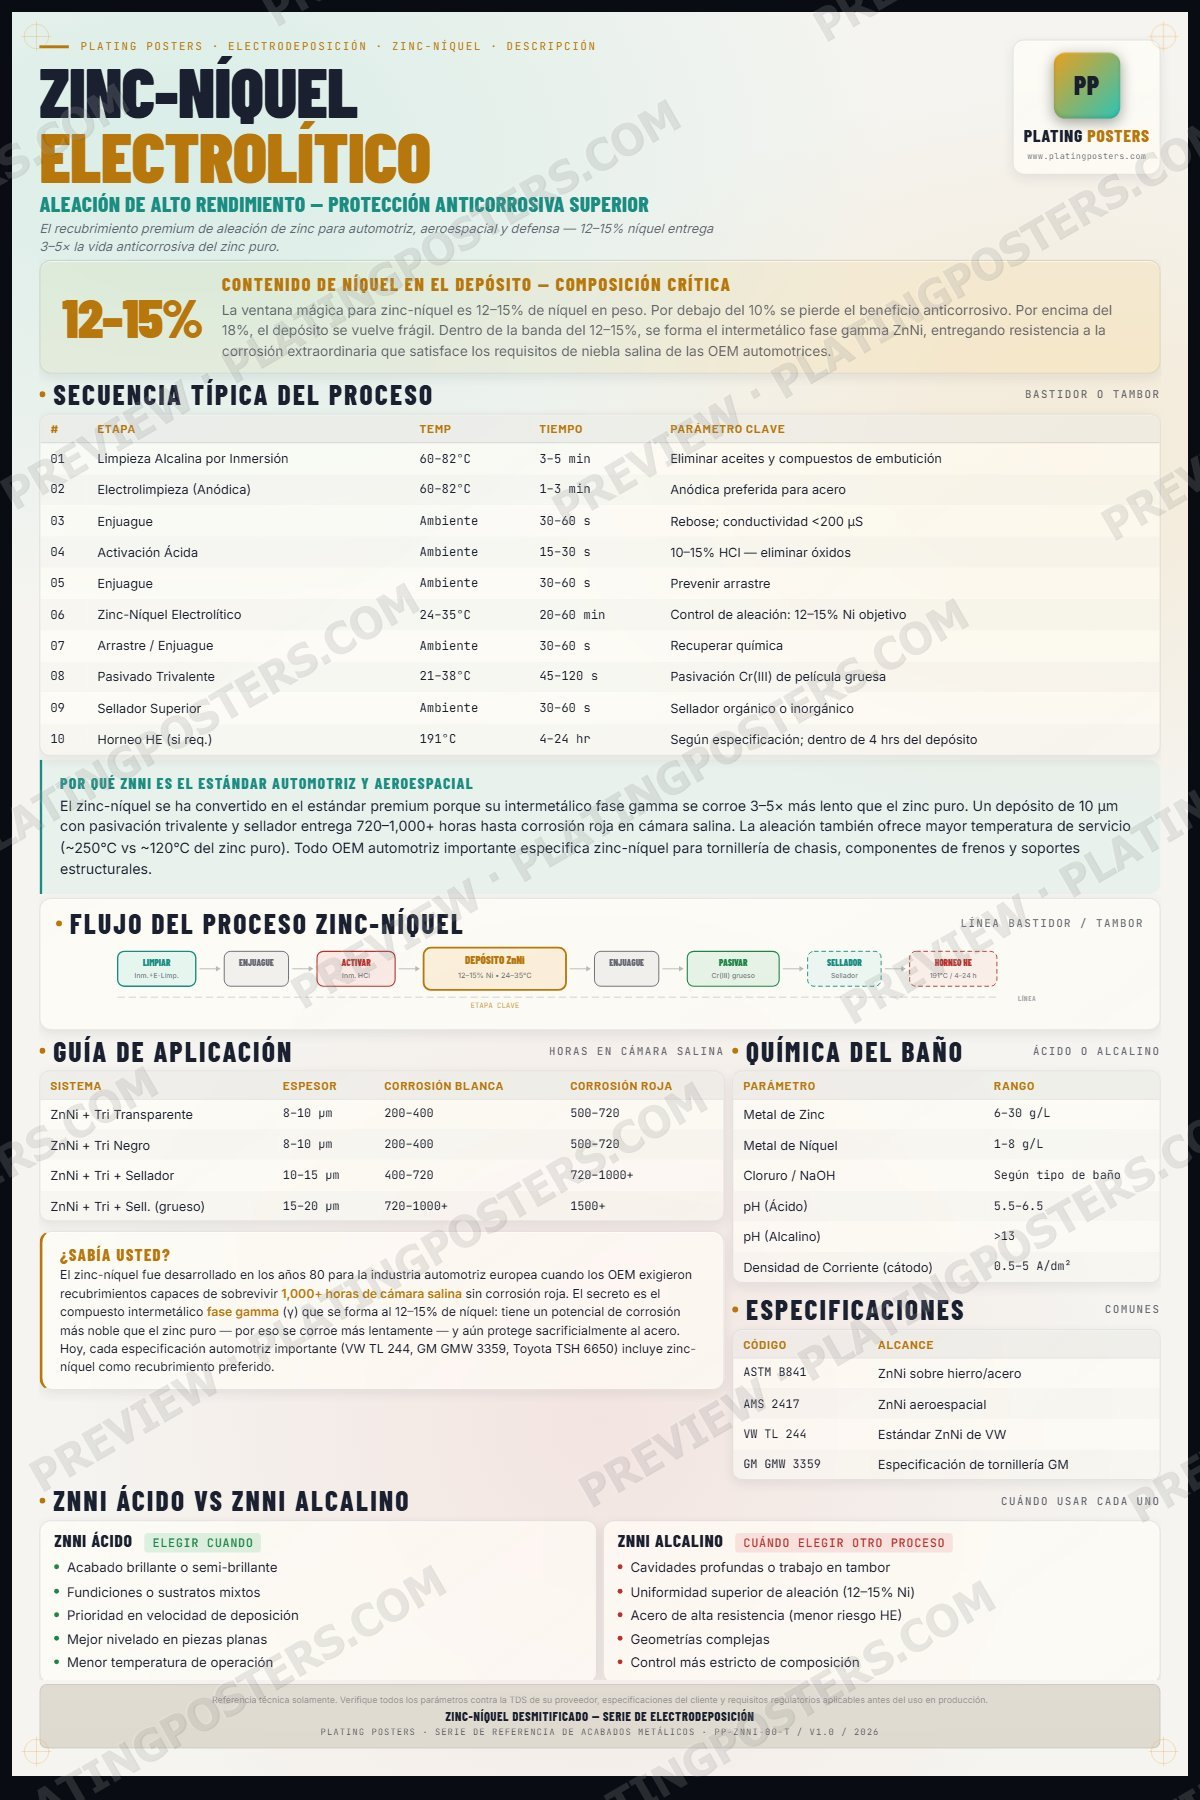
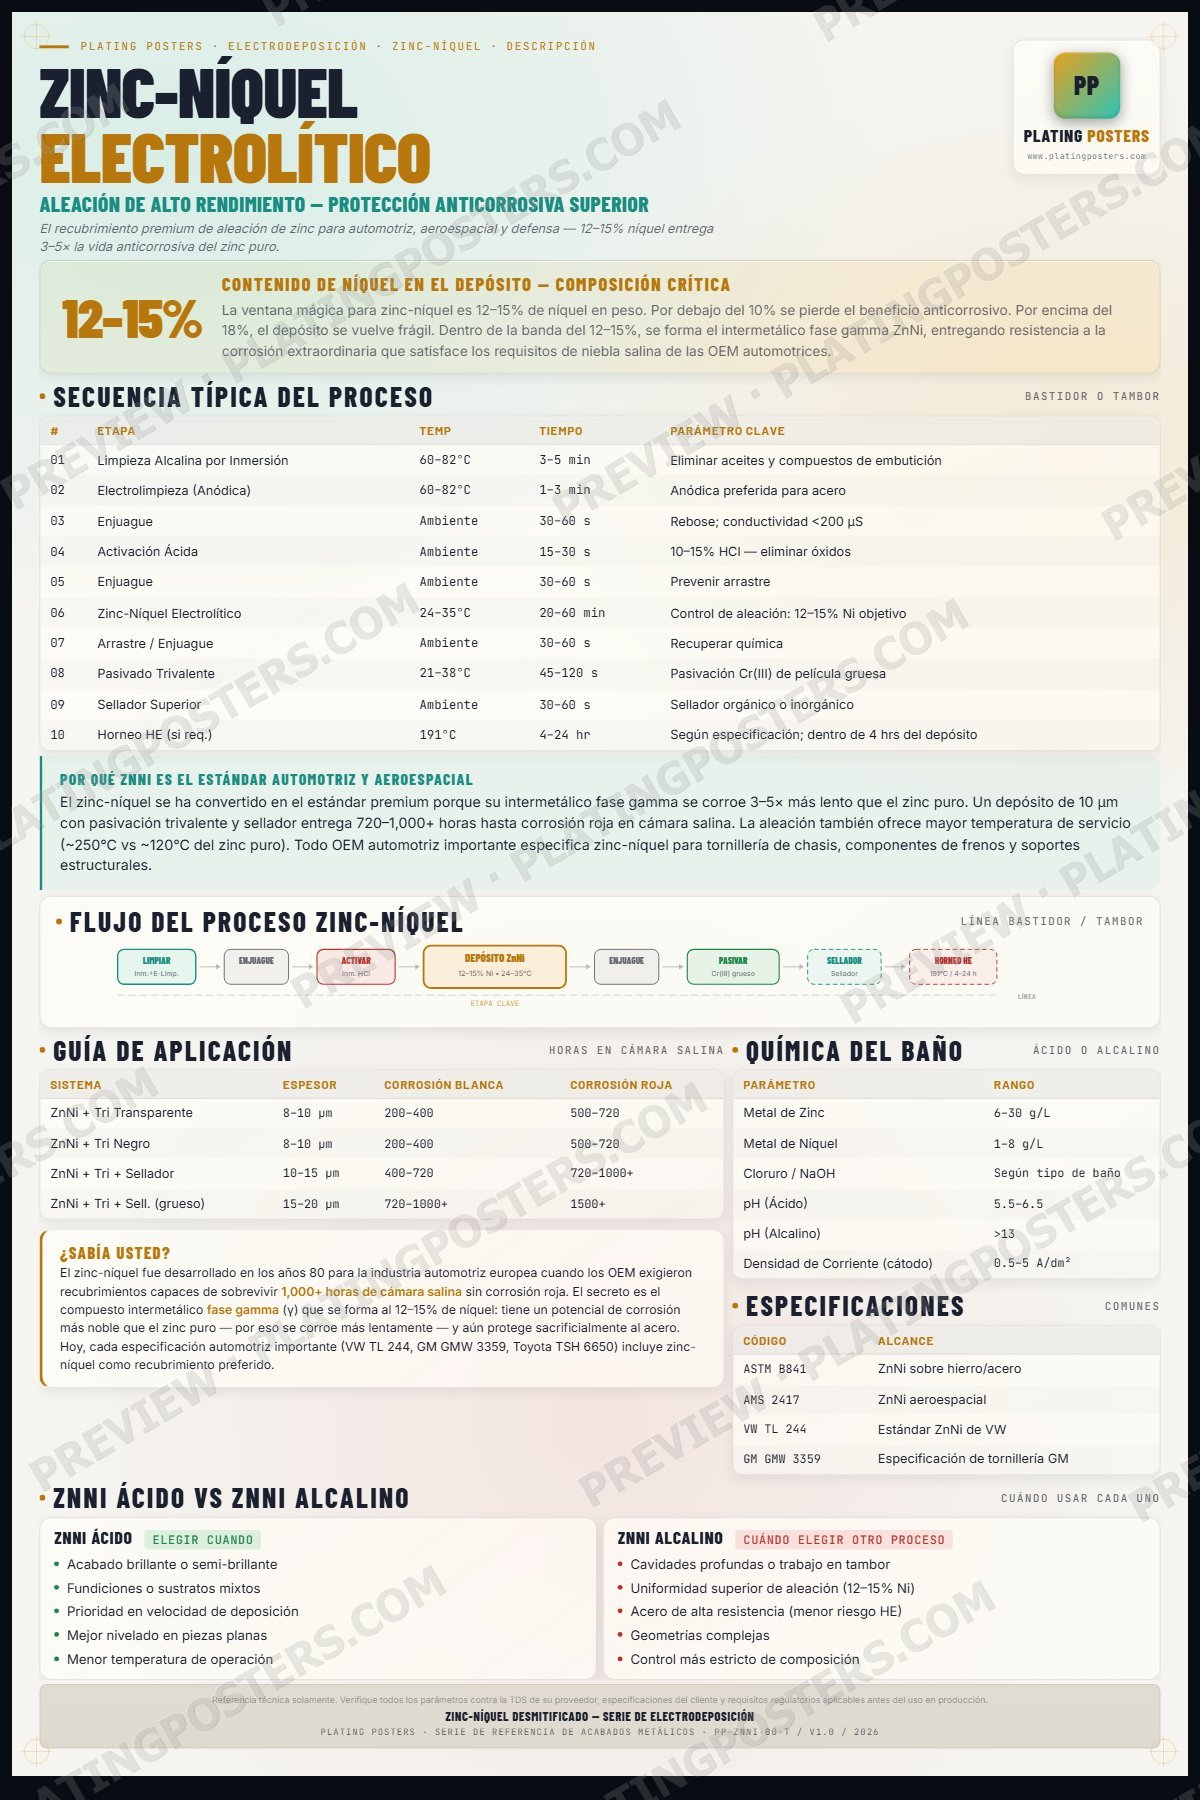
ZnNi Demystified: fix poster-body bottom clip (4 variants)
Pre-existing 6px (EN) / 4px (ES) content clip at the 1800px canvas
edge. Tightened process/bath table row line-heights (wave2-fit block,
no font/content change) -> 0px clip, 28px footer clearance all 4.
Regenerated the 4 ZnNi previews (auto-watermarked). All 100
Demystified now print-ready.

diff --git a/poster-sources/ZnNi - 00 - TECHNICAL - Zinc-Nickel Plating Demystified - EN - Dark.html b/poster-sources/ZnNi - 00 - TECHNICAL - Zinc-Nickel Plating Demystified - EN - Dark.html
@@ -44,6 +44,9 @@ html,body{margin:0;padding:0;background:#0a0c14;}
 .safety-card{padding:12px 18px;background:rgba(224,92,92,.08);border:1px solid rgba(224,92,92,.25);border-radius:12px;}.safety-head{font-family:'Barlow Condensed',sans-serif;font-weight:900;font-size:20px;color:var(--coral);letter-spacing:.06em;text-transform:uppercase;margin-bottom:5px;}.safety-body{font-size:14px;color:var(--text);line-height:1.55;}.safety-body strong{font-weight:700;color:var(--coral);}
 .footer{padding:10px 20px;background-color:rgba(13,16,32,.85);background-image:linear-gradient(180deg,rgba(255,255,255,.04),rgba(0,0,0,0));border:1px solid rgba(255,255,255,.10);border-radius:8px;text-align:center;display:flex;flex-direction:column;gap:2px;}.poster[data-edition="light"] .footer{background-color:rgba(221,216,206,.95);border-color:rgba(27,32,48,.10);}.footer-disclaimer{font-family:'Inter',sans-serif;font-size:9px;line-height:1.35;color:var(--faint);margin:0 auto;max-width:900px;}.footer-title{font-family:'Barlow Condensed',sans-serif;font-weight:800;font-size:13px;color:var(--text);letter-spacing:.04em;text-transform:uppercase;margin:0;}.footer-brand{font-family:'JetBrains Mono',monospace;font-size:9px;color:var(--muted);letter-spacing:.12em;text-transform:uppercase;}
 .tweaks{position:fixed;bottom:16px;right:16px;z-index:100;background:rgba(13,16,32,.92);border:1px solid rgba(255,255,255,.12);border-radius:10px;padding:10px 14px;display:flex;flex-direction:column;gap:8px;font-family:'Inter',sans-serif;font-size:12px;color:#F0EDE8;}
+/* wave2-fit (2026-08-06): clear pre-existing ~6px .poster-body bottom clip by tightening table row rhythm only — no font-size or content change */
+.data-table.compact td{line-height:1.40;}
+.data-table.bath td{line-height:1.36;}
 @media print{@page{size:12.5in 18.75in;margin:0;}html,body{background:#1A1F2E !important;-webkit-print-color-adjust:exact !important;print-color-adjust:exact !important;}*{-webkit-print-color-adjust:exact !important;print-color-adjust:exact !important;}.stage{position:static;padding:0;display:block;overflow:visible;}.poster-wrap{transform:none !important;width:auto !important;height:auto !important;}.poster{box-shadow:none !important;width:1200px !important;height:1800px !important;overflow:hidden !important;}.glass,.insight-card,.safety-card{backdrop-filter:none !important;-webkit-backdrop-filter:none !important;}.tweaks{display:none !important;}}
 </style>
 </head>

diff --git a/poster-sources/ZnNi - 00 - TECHNICAL - Zinc-Nickel Plating Demystified - EN - Light.html b/poster-sources/ZnNi - 00 - TECHNICAL - Zinc-Nickel Plating Demystified - EN - Light.html
@@ -44,6 +44,9 @@ html,body{margin:0;padding:0;background:#0a0c14;}
 .safety-card{padding:12px 18px;background:rgba(224,92,92,.08);border:1px solid rgba(224,92,92,.25);border-radius:12px;}.safety-head{font-family:'Barlow Condensed',sans-serif;font-weight:900;font-size:20px;color:var(--coral);letter-spacing:.06em;text-transform:uppercase;margin-bottom:5px;}.safety-body{font-size:14px;color:var(--text);line-height:1.55;}.safety-body strong{font-weight:700;color:var(--coral);}
 .footer{padding:10px 20px;background-color:rgba(13,16,32,.85);background-image:linear-gradient(180deg,rgba(255,255,255,.04),rgba(0,0,0,0));border:1px solid rgba(255,255,255,.10);border-radius:8px;text-align:center;display:flex;flex-direction:column;gap:2px;}.poster[data-edition="light"] .footer{background-color:rgba(221,216,206,.95);border-color:rgba(27,32,48,.10);}.footer-disclaimer{font-family:'Inter',sans-serif;font-size:9px;line-height:1.35;color:var(--faint);margin:0 auto;max-width:900px;}.footer-title{font-family:'Barlow Condensed',sans-serif;font-weight:800;font-size:13px;color:var(--text);letter-spacing:.04em;text-transform:uppercase;margin:0;}.footer-brand{font-family:'JetBrains Mono',monospace;font-size:9px;color:var(--muted);letter-spacing:.12em;text-transform:uppercase;}
 .tweaks{position:fixed;bottom:16px;right:16px;z-index:100;background:rgba(13,16,32,.92);border:1px solid rgba(255,255,255,.12);border-radius:10px;padding:10px 14px;display:flex;flex-direction:column;gap:8px;font-family:'Inter',sans-serif;font-size:12px;color:#F0EDE8;}
+/* wave2-fit (2026-08-06): clear pre-existing ~6px .poster-body bottom clip by tightening table row rhythm only — no font-size or content change */
+.data-table.compact td{line-height:1.40;}
+.data-table.bath td{line-height:1.36;}
 @media print{@page{size:12.5in 18.75in;margin:0;}html,body{background:#1A1F2E !important;-webkit-print-color-adjust:exact !important;print-color-adjust:exact !important;}*{-webkit-print-color-adjust:exact !important;print-color-adjust:exact !important;}.stage{position:static;padding:0;display:block;overflow:visible;}.poster-wrap{transform:none !important;width:auto !important;height:auto !important;}.poster{box-shadow:none !important;width:1200px !important;height:1800px !important;overflow:hidden !important;}.glass,.insight-card,.safety-card{backdrop-filter:none !important;-webkit-backdrop-filter:none !important;}.tweaks{display:none !important;}}
 </style>
 </head>

diff --git a/poster-sources/ZnNi - 00 - TECHNICAL - Zinc-Niquel Desmitificado - ES - Dark.html b/poster-sources/ZnNi - 00 - TECHNICAL - Zinc-Niquel Desmitificado - ES - Dark.html
@@ -44,6 +44,9 @@ html,body{margin:0;padding:0;background:#0a0c14;}
 .safety-card{padding:12px 18px;background:rgba(224,92,92,.08);border:1px solid rgba(224,92,92,.25);border-radius:12px;}.safety-head{font-family:'Barlow Condensed',sans-serif;font-weight:900;font-size:20px;color:var(--coral);letter-spacing:.06em;text-transform:uppercase;margin-bottom:5px;}.safety-body{font-size:14px;color:var(--text);line-height:1.55;}.safety-body strong{font-weight:700;color:var(--coral);}
 .footer{padding:10px 20px;background-color:rgba(13,16,32,.85);background-image:linear-gradient(180deg,rgba(255,255,255,.04),rgba(0,0,0,0));border:1px solid rgba(255,255,255,.10);border-radius:8px;text-align:center;display:flex;flex-direction:column;gap:2px;}.poster[data-edition="light"] .footer{background-color:rgba(221,216,206,.95);border-color:rgba(27,32,48,.10);}.footer-disclaimer{font-family:'Inter',sans-serif;font-size:9px;line-height:1.35;color:var(--faint);margin:0 auto;max-width:900px;}.footer-title{font-family:'Barlow Condensed',sans-serif;font-weight:800;font-size:13px;color:var(--text);letter-spacing:.04em;text-transform:uppercase;margin:0;}.footer-brand{font-family:'JetBrains Mono',monospace;font-size:9px;color:var(--muted);letter-spacing:.12em;text-transform:uppercase;}
 .tweaks{position:fixed;bottom:16px;right:16px;z-index:100;background:rgba(13,16,32,.92);border:1px solid rgba(255,255,255,.12);border-radius:10px;padding:10px 14px;display:flex;flex-direction:column;gap:8px;font-family:'Inter',sans-serif;font-size:12px;color:#F0EDE8;}
+/* wave2-fit (2026-08-06): clear pre-existing ~4px .poster-body bottom clip by tightening table row rhythm only — no font-size or content change */
+.data-table.compact td{line-height:1.40;}
+.data-table.bath td{line-height:1.36;}
 @media print{@page{size:12.5in 18.75in;margin:0;}html,body{background:#1A1F2E !important;-webkit-print-color-adjust:exact !important;print-color-adjust:exact !important;}*{-webkit-print-color-adjust:exact !important;print-color-adjust:exact !important;}.stage{position:static;padding:0;display:block;overflow:visible;}.poster-wrap{transform:none !important;width:auto !important;height:auto !important;}.poster{box-shadow:none !important;width:1200px !important;height:1800px !important;overflow:hidden !important;}.glass,.insight-card,.safety-card{backdrop-filter:none !important;-webkit-backdrop-filter:none !important;}.tweaks{display:none !important;}}
 </style>
 </head>

diff --git a/poster-sources/ZnNi - 00 - TECHNICAL - Zinc-Niquel Desmitificado - ES - Light.html b/poster-sources/ZnNi - 00 - TECHNICAL - Zinc-Niquel Desmitificado - ES - Light.html
@@ -44,6 +44,9 @@ html,body{margin:0;padding:0;background:#0a0c14;}
 .safety-card{padding:12px 18px;background:rgba(224,92,92,.08);border:1px solid rgba(224,92,92,.25);border-radius:12px;}.safety-head{font-family:'Barlow Condensed',sans-serif;font-weight:900;font-size:20px;color:var(--coral);letter-spacing:.06em;text-transform:uppercase;margin-bottom:5px;}.safety-body{font-size:14px;color:var(--text);line-height:1.55;}.safety-body strong{font-weight:700;color:var(--coral);}
 .footer{padding:10px 20px;background-color:rgba(13,16,32,.85);background-image:linear-gradient(180deg,rgba(255,255,255,.04),rgba(0,0,0,0));border:1px solid rgba(255,255,255,.10);border-radius:8px;text-align:center;display:flex;flex-direction:column;gap:2px;}.poster[data-edition="light"] .footer{background-color:rgba(221,216,206,.95);border-color:rgba(27,32,48,.10);}.footer-disclaimer{font-family:'Inter',sans-serif;font-size:9px;line-height:1.35;color:var(--faint);margin:0 auto;max-width:900px;}.footer-title{font-family:'Barlow Condensed',sans-serif;font-weight:800;font-size:13px;color:var(--text);letter-spacing:.04em;text-transform:uppercase;margin:0;}.footer-brand{font-family:'JetBrains Mono',monospace;font-size:9px;color:var(--muted);letter-spacing:.12em;text-transform:uppercase;}
 .tweaks{position:fixed;bottom:16px;right:16px;z-index:100;background:rgba(13,16,32,.92);border:1px solid rgba(255,255,255,.12);border-radius:10px;padding:10px 14px;display:flex;flex-direction:column;gap:8px;font-family:'Inter',sans-serif;font-size:12px;color:#F0EDE8;}
+/* wave2-fit (2026-08-06): clear pre-existing ~4px .poster-body bottom clip by tightening table row rhythm only — no font-size or content change */
+.data-table.compact td{line-height:1.40;}
+.data-table.bath td{line-height:1.36;}
 @media print{@page{size:12.5in 18.75in;margin:0;}html,body{background:#1A1F2E !important;-webkit-print-color-adjust:exact !important;print-color-adjust:exact !important;}*{-webkit-print-color-adjust:exact !important;print-color-adjust:exact !important;}.stage{position:static;padding:0;display:block;overflow:visible;}.poster-wrap{transform:none !important;width:auto !important;height:auto !important;}.poster{box-shadow:none !important;width:1200px !important;height:1800px !important;overflow:hidden !important;}.glass,.insight-card,.safety-card{backdrop-filter:none !important;-webkit-backdrop-filter:none !important;}.tweaks{display:none !important;}}
 </style>
 </head>
